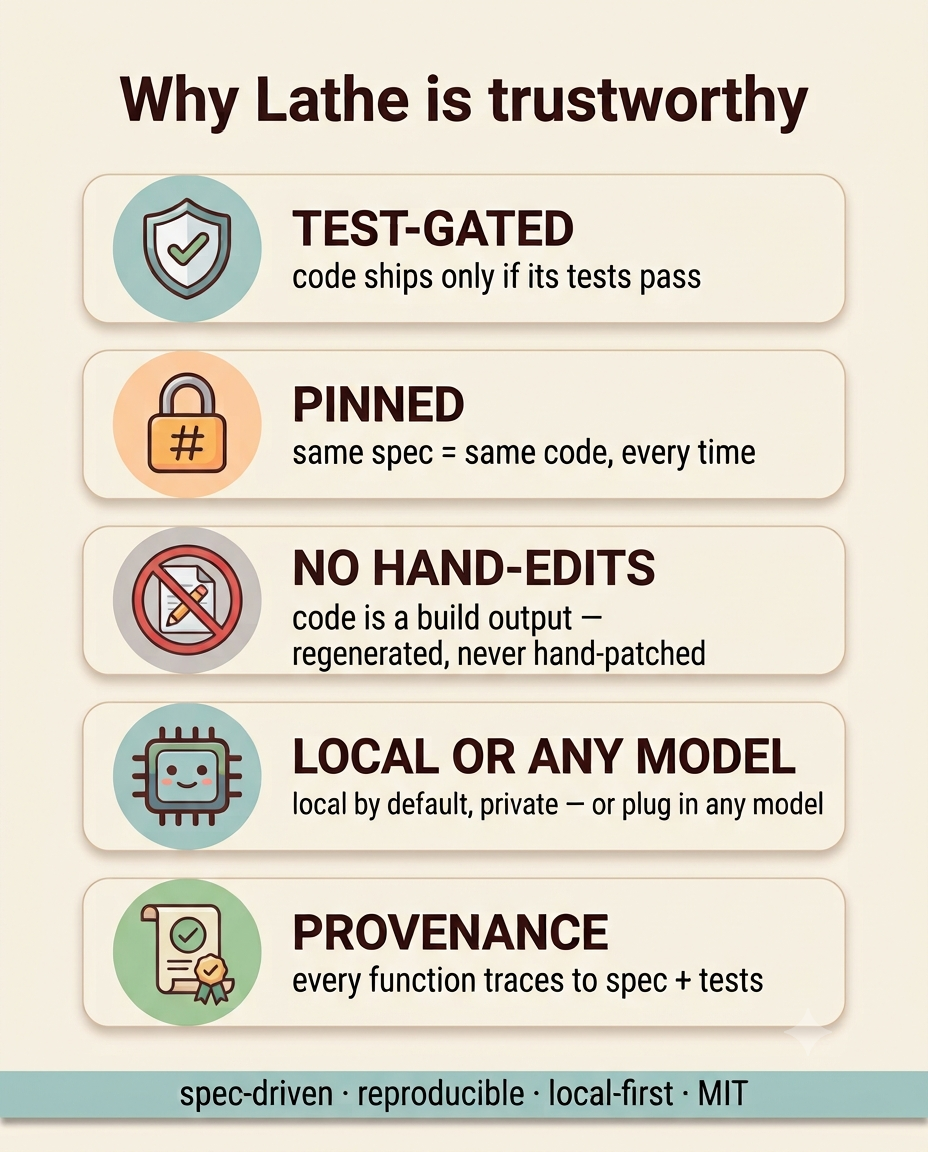
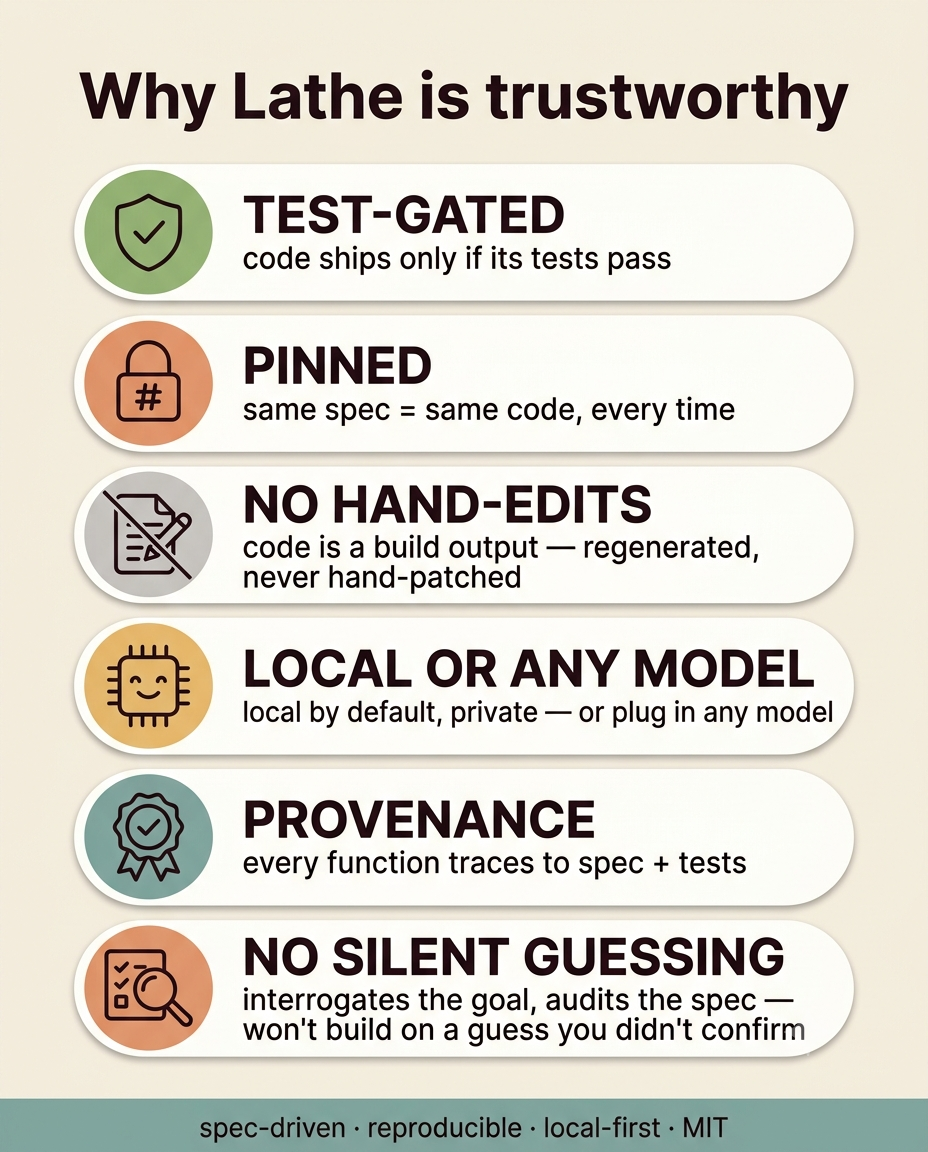
infographics: #03 strengths -> 6 tiles (adds "no silent guessing")
Regenerated the strengths graphic to include the v2.6 front-ends as a sixth
tile: test-gated · pinned · no-hand-edits · local-or-any-model · provenance ·
NO SILENT GUESSING (interrogates the goal, audits the spec). Text verified.
Ledger updated (#03 6-tile + #19 hero both marked done).

Claude-Session: https://claude.ai/code/session_01RXVxW7mnU4rgx2d2ope1vy

diff --git a/docs/infographics/NANO_BANANA_PROMPTS.md b/docs/infographics/NANO_BANANA_PROMPTS.md
@@ -318,8 +318,11 @@ assumption-auditor). All v2.5/v2.6 infographic work is complete:*
 - **NO CHANGE — still accurate:** #01–#04, #06–#12, #14, #15, #16. (None assert a gate count; they describe
   the loop, division of labour, strengths, determinism, provenance chain, safety spine, interop, persona
   library — all unchanged by v2.2.3 → v2.6.2.)
-- **Optional enhancement (needs a fresh render):** **#03 "strengths"** could gain a 6th tile "no silent
-  guessing" (clarify + assumption gate) — not stale, just upside. Prompt available on request.
+- **✅ #03 "Why Lathe is trustworthy"** — regenerated to **6 tiles**, adding "NO SILENT GUESSING" (clarify +
+  assumption gate) alongside test-gated / pinned / no-hand-edits / local-or-any / provenance. Verified.
+- **✅ #19 `19_method_overview.png` (NEW hero)** — single-canvas summary: the five-stage pipeline
+  (GOAL → ANALYST → LOCAL MODEL → GATE → PINNED) + red fail→spec loop + the seven-gate ENFORCE band with a
+  merged `test-kind (property · edge · error)` chip. Verified. Intended as the lead image.
 
 *Priority order to hand to Nano Banana: #18 (the trust headline — assumption gate is the newest, strongest
 beat) → #17 (its front-end twin) → #13 (regenerate to seven gates) → #00 (regenerate the map). #17/#18